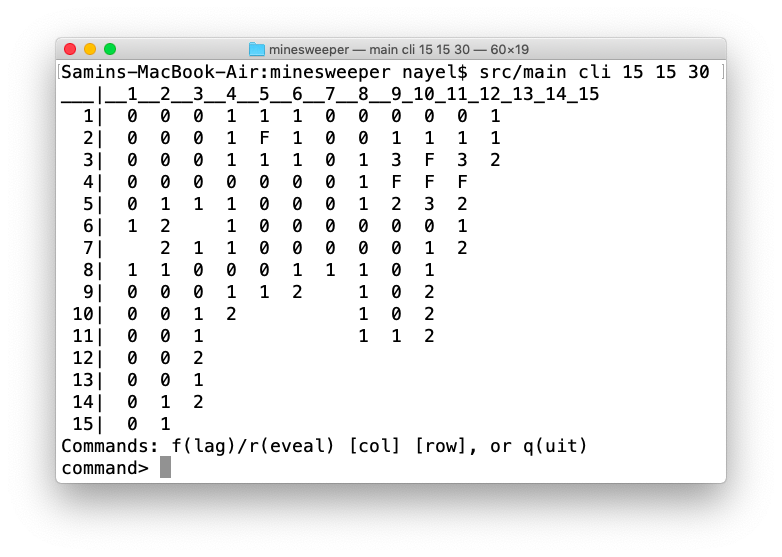
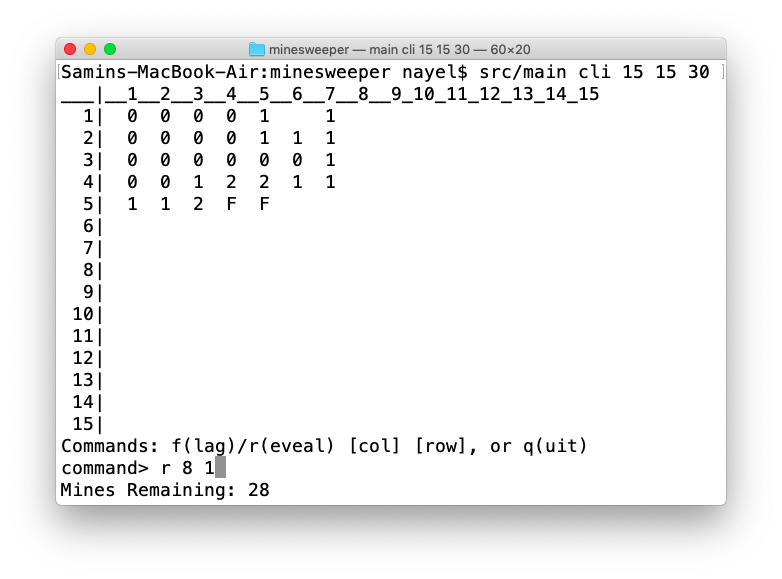
added mines remaining to cli

diff --git a/cli/cli.c b/cli/cli.c
@@ -3,8 +3,10 @@
 #include <assert.h>
 #include "cli.h"
 
-static const char *erase_line = "\e[K";
+static const char *erase_line = "\r\e[K";
 static const char *go_up = "\e[%dA";
+static const char *go_down = "\e[%dB";
+int mines_remaining;
 
 void print_board(const struct board *b) {
 	assert(b);
@@ -23,7 +25,9 @@ void print_board(const struct board *b) {
 }
 
 void print_commands(void) {
-	printf("Commands: f(lag)/r(eveal) [col] [row], or q(uit)\n");
+	printf("Commands: f(lag)/r(eveal) [col] [row], or q(uit)");
+	printf("\n\n%sMines Remaining: %d", erase_line, mines_remaining);
+	printf(go_up, 1);
 	printf("%scommand> ", erase_line);
 }
 
@@ -54,6 +58,7 @@ static void parse_command(char *line, char *command, int *x, int *y) {
 }
 
 int play_cli(struct board *b) {
+	mines_remaining = b->num_mines;
 	print_board(b);
 	print_commands();
 
@@ -66,6 +71,12 @@ int play_cli(struct board *b) {
 		parse_command(line, &command, &x, &y);
 		if (command == 'f') {
 			if (flag(b, x, y)) {
+				int index = (y - 1) * b->width + x - 1;
+				if (b->grid[index] == FLAG) {
+					mines_remaining--;
+				} else {
+					mines_remaining++;
+				}
 				printf(go_up, b->height + 3);
 				print_board(b);
 			} else {
@@ -86,6 +97,7 @@ int play_cli(struct board *b) {
 				printf(go_up, 2);
 			}
 		} else if (command == 'q') {
+			printf("%sQuitting\n", erase_line);
 			return EXIT_SUCCESS;
 		} else {
 			printf(go_up, 2);
